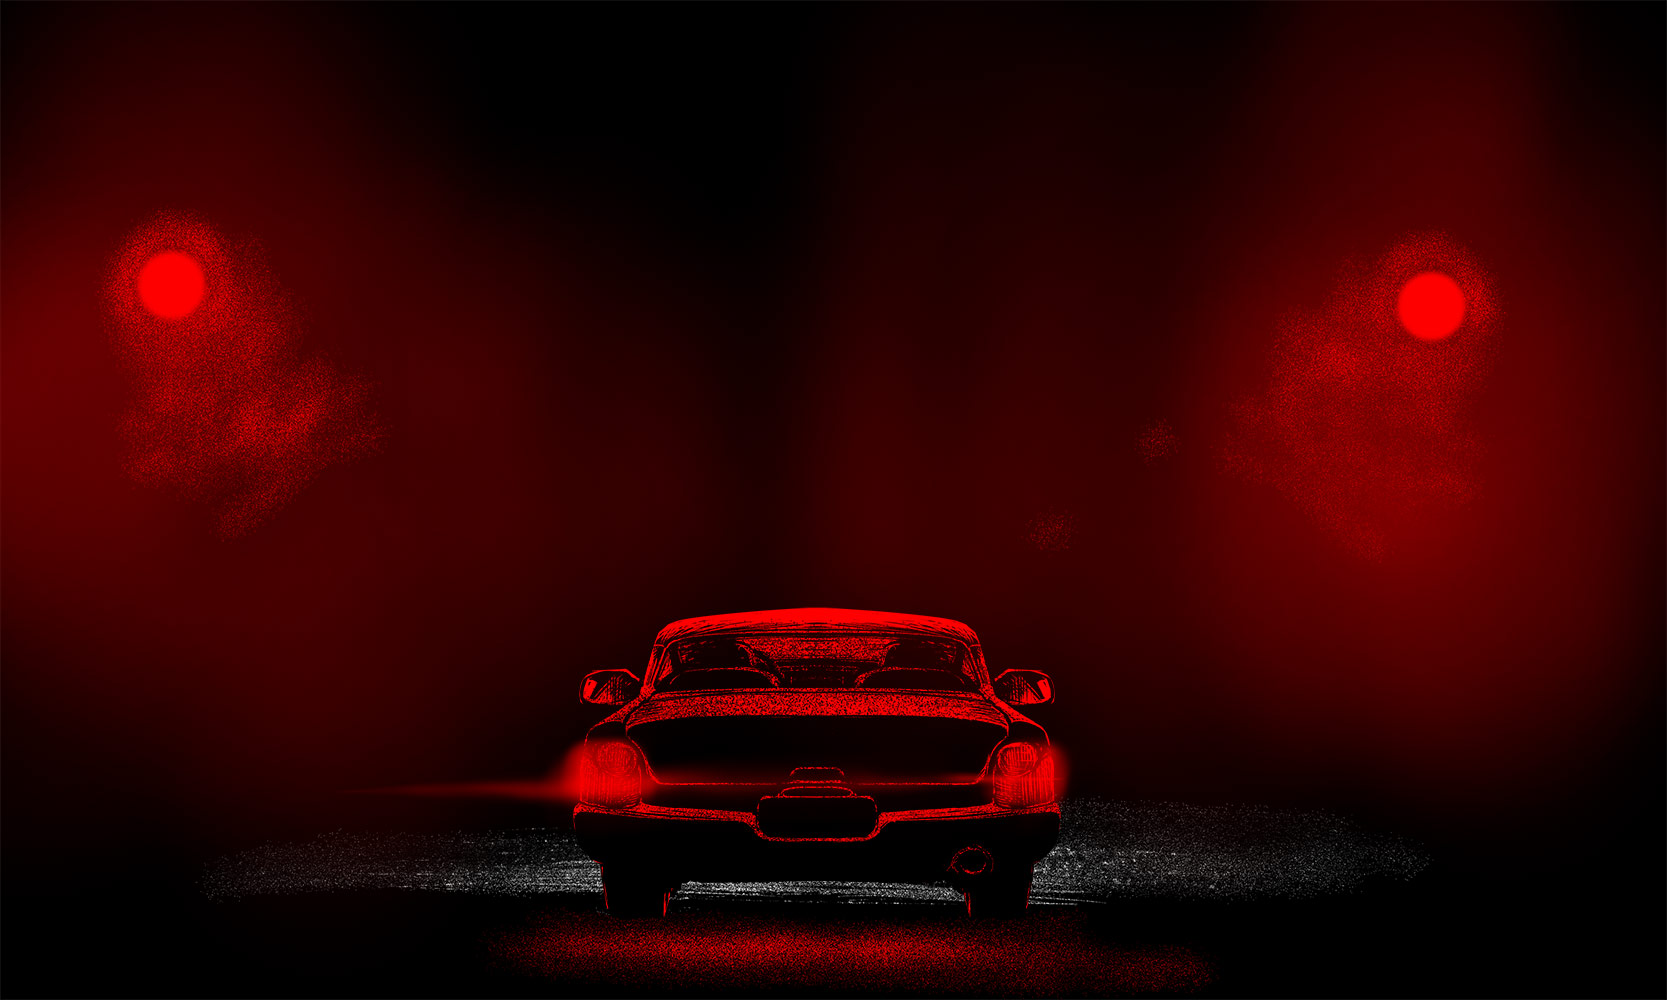
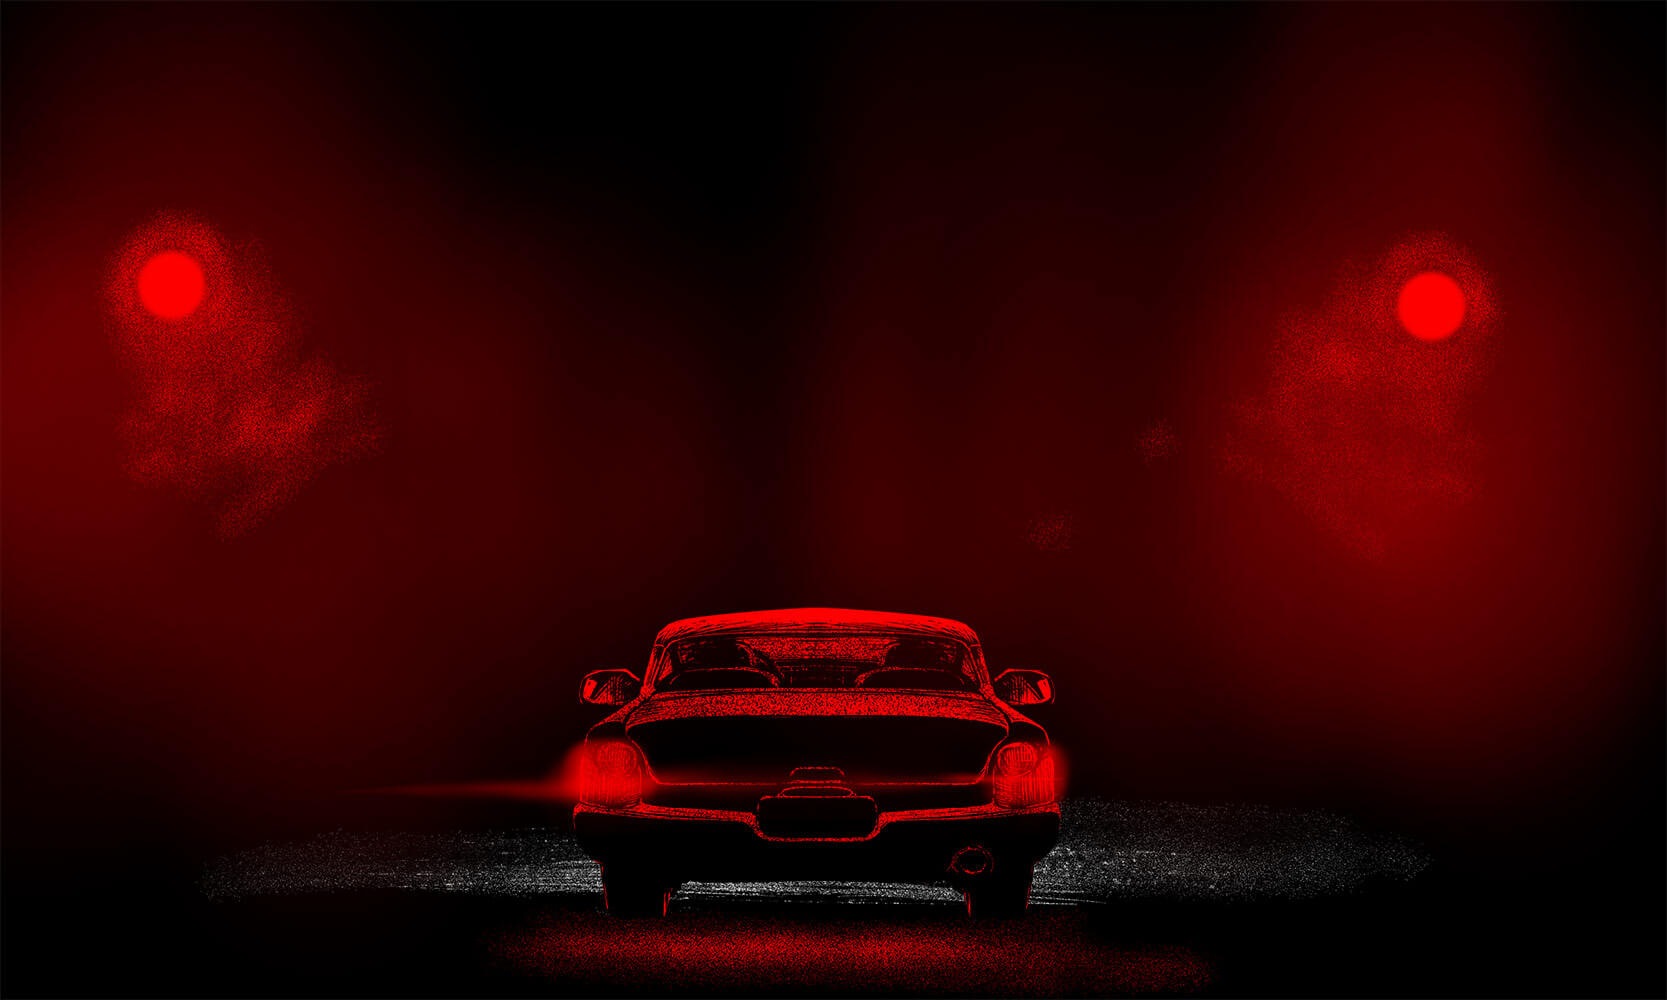
content-update

diff --git a/docs/stylesheets/extra.css b/docs/stylesheets/extra.css
@@ -4,12 +4,16 @@
 
 :root{
 .md-container{
-    background-image: url("https://584f525f.github.io/assets/images/layers/moneymaker.jpg");
+    background-image: url("https://584f525f.github.io/assets/images/layers/moneymaker_blurred.jpg");
     background-position: center;
-    background-size: auto;
+    background-size:cover;
+    z-index: -1;
+    object-fit: contain;
     background-repeat: no-repeat;
-    filter: blur(25px);
-    -webkit-filter: blur(8px);
+    height: 100%;
+    width: 100%;
+    /* filter: blur(25px);
+    -webkit-filter: blur(8px); */
   }
 
     @media screen and (min-width: 790px) {
